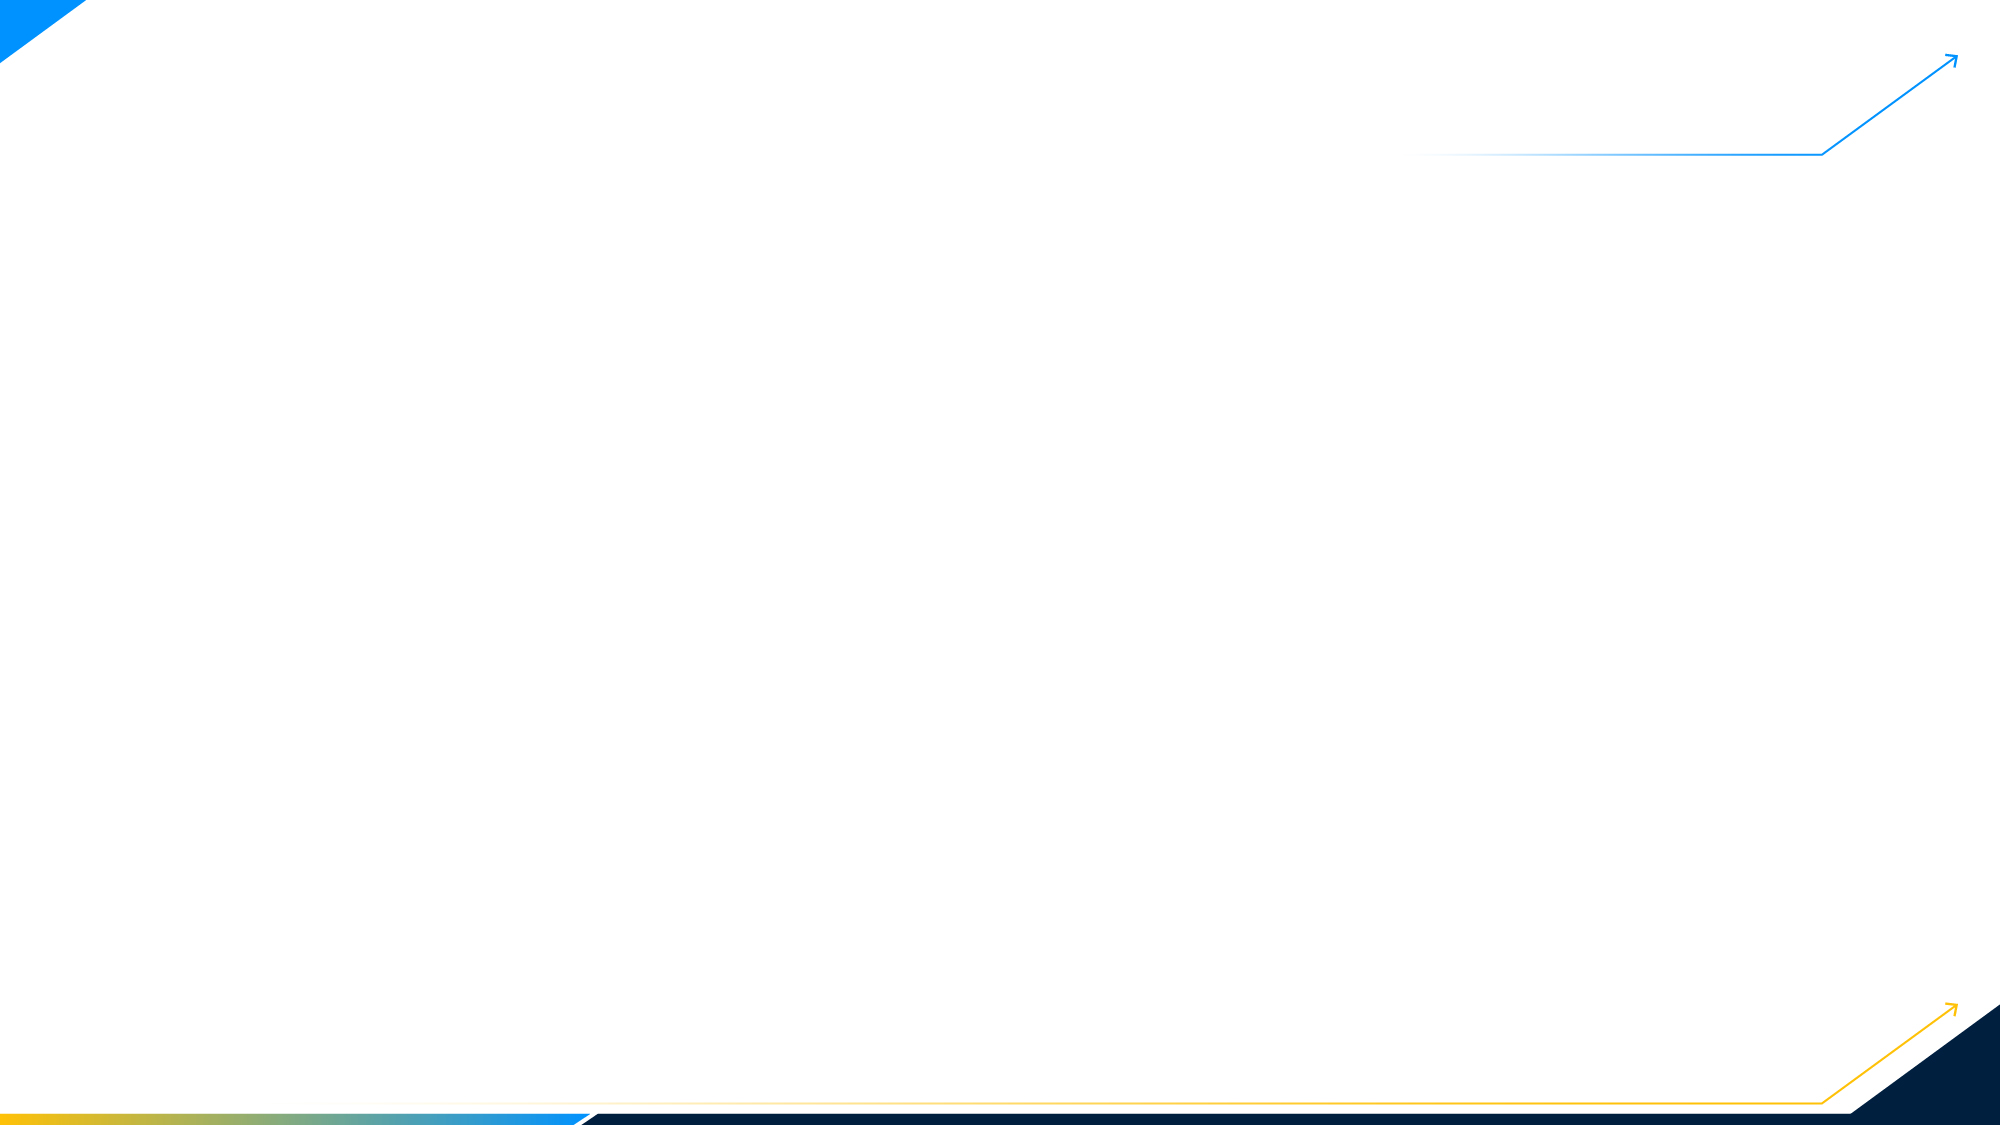
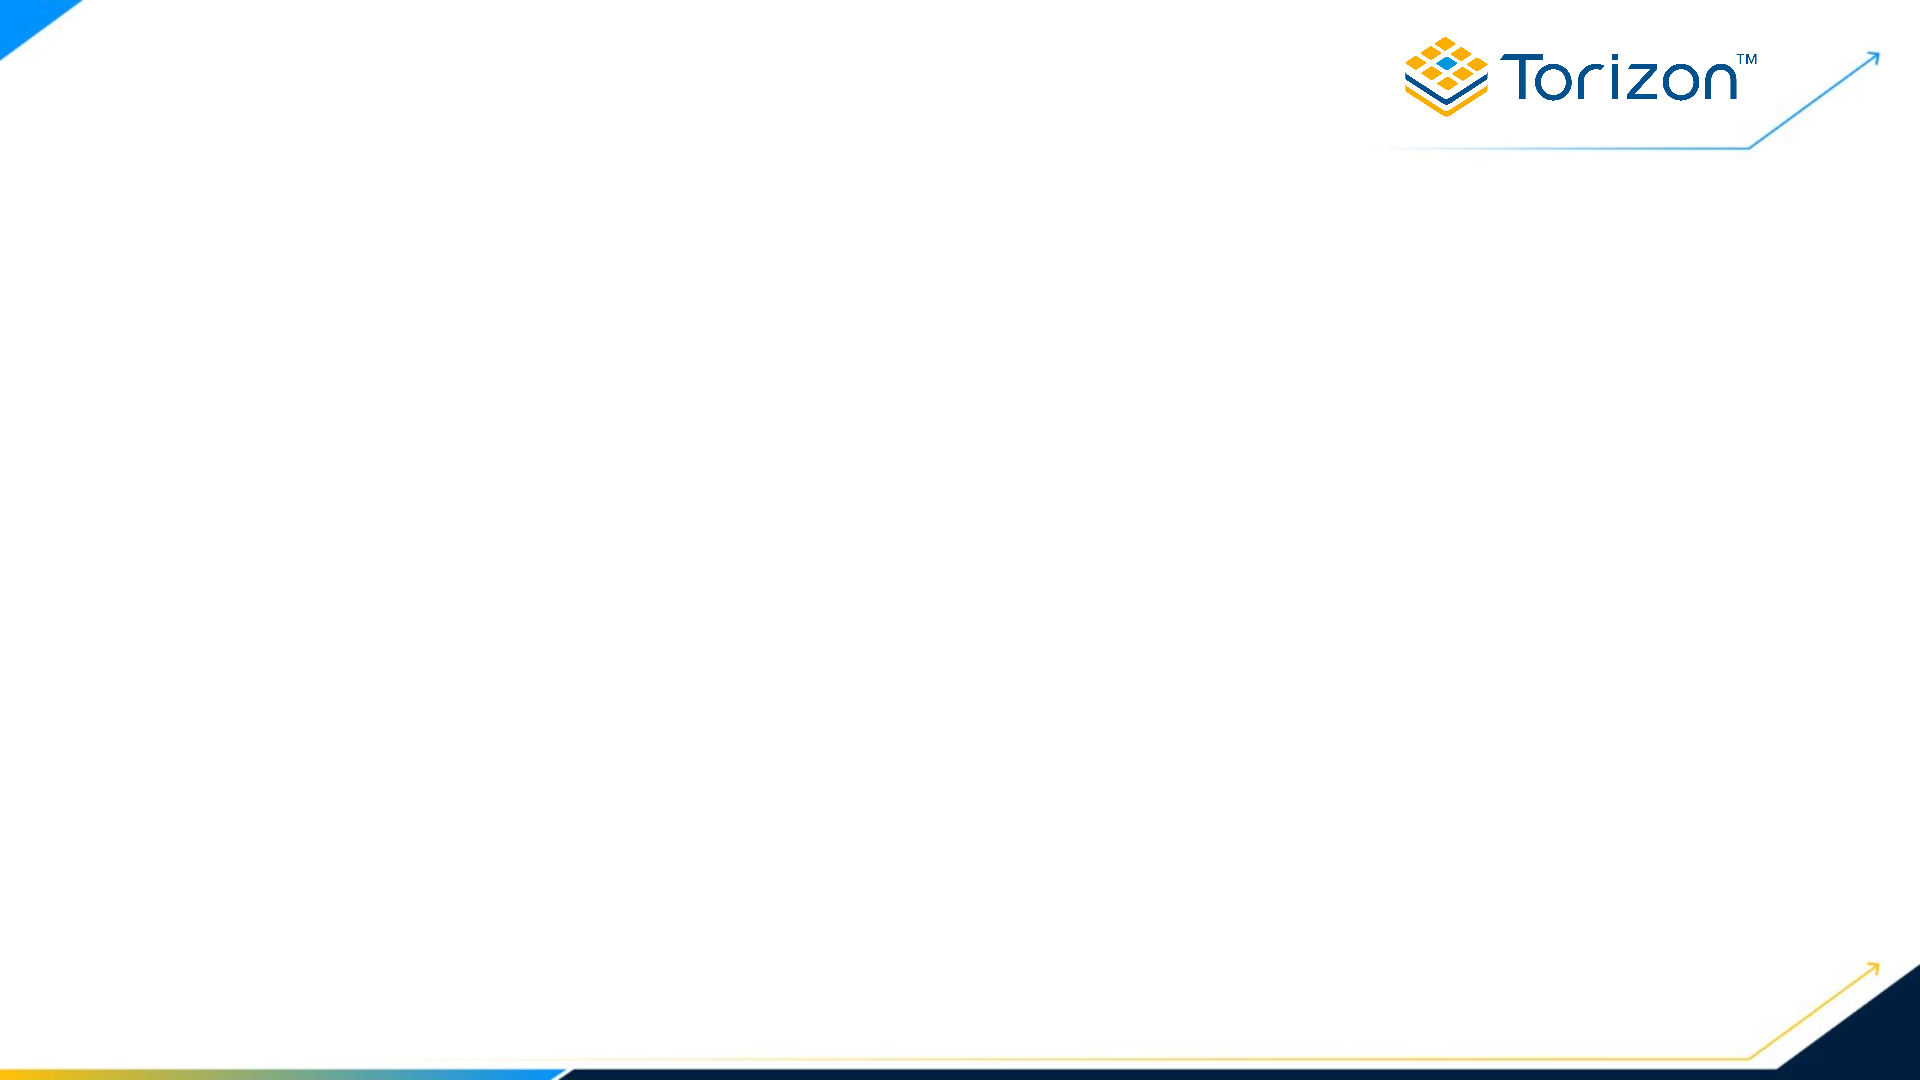
Better slide background to match Toradex PPT

diff --git a/custom.css b/custom.css
@@ -20,6 +20,7 @@
 .reveal {
   background-color: var(--color-white);
   color: var(--color-text);
+  text-align: left;
   font-family: "Open Sans", system-ui, -apple-system, BlinkMacSystemFont,
                "Segoe UI", sans-serif;
   font-size: 26px;
@@ -55,12 +56,11 @@
   color: var(--toradex-blue);
 }
 
-/* Underline main headings with green accent (except title slide). */
+/* Heading alignment and spacing on content slides.
+   No border-bottom — background image provides the green accent line. */
 .reveal .slides section:not(#title-slide) h1,
 .reveal .slides section:not(#title-slide) h2 {
   text-align: left;
-  border-bottom: 3px solid var(--toradex-green);
-  padding-bottom: 8px;
   margin-bottom: var(--slide-title-gap);
 }
 
@@ -221,3 +221,5 @@
   background-repeat: no-repeat;
   background-color: var(--color-white);
 }
+
+/* Torizon logo is baked into main-slide-background.png at top-right */
